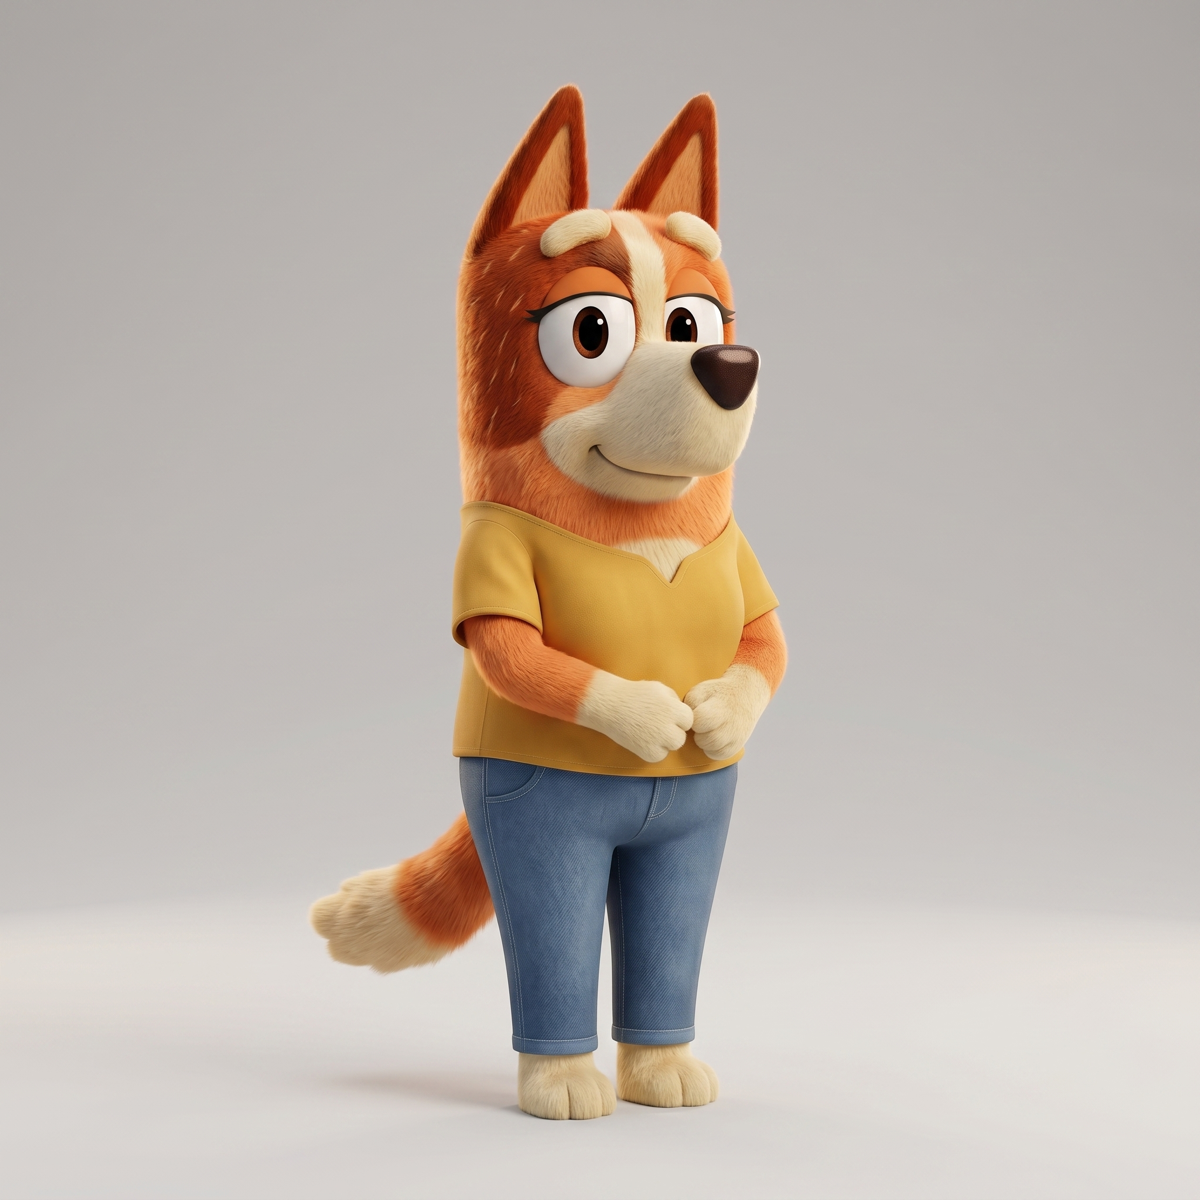
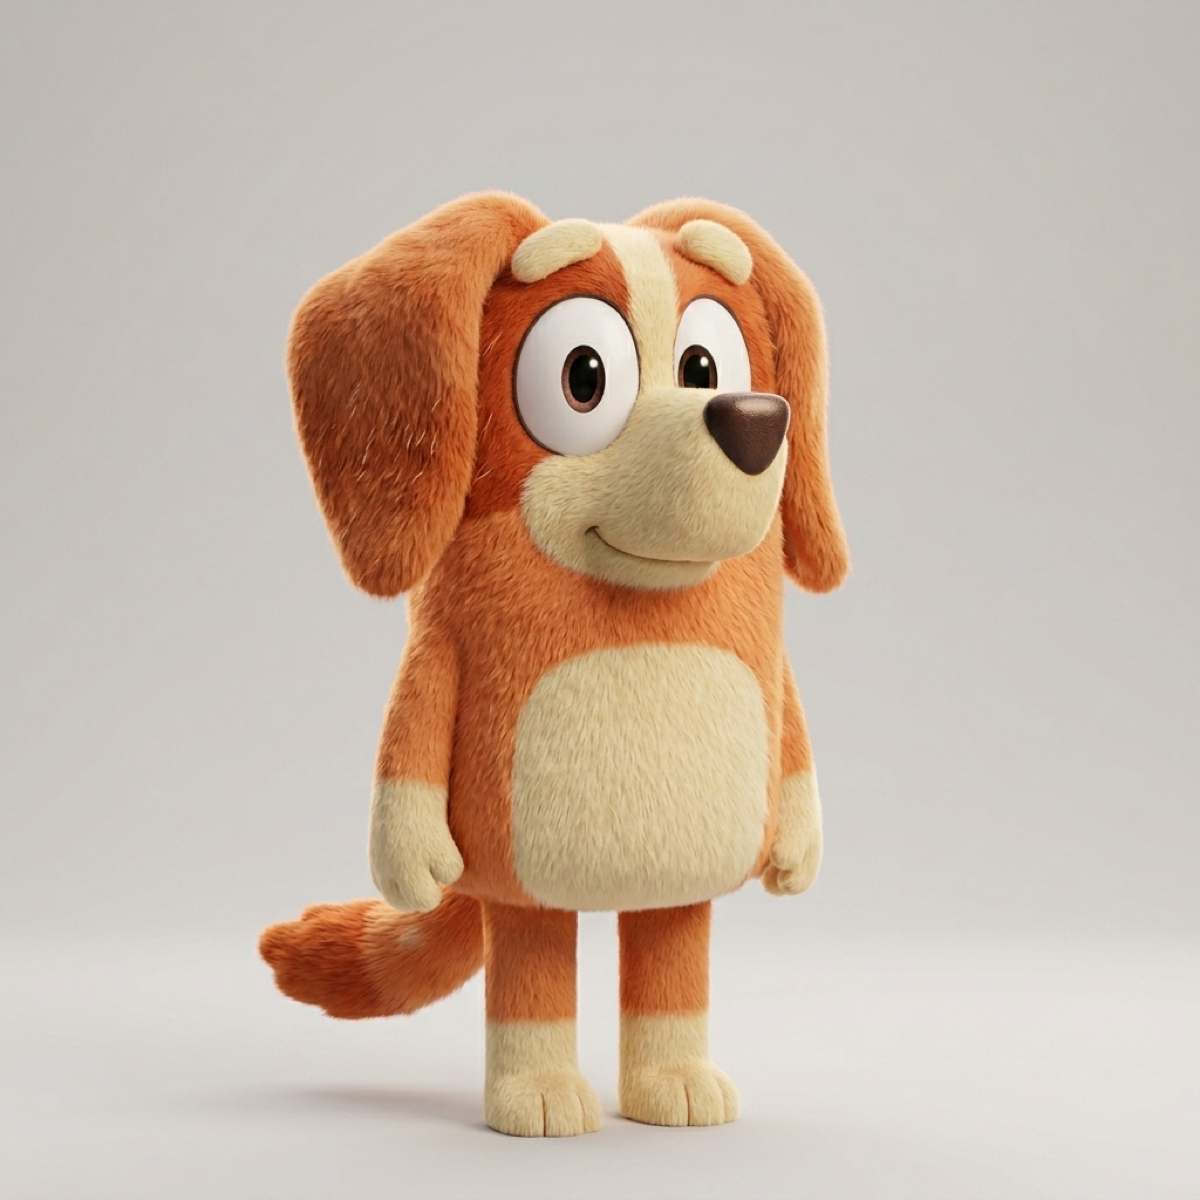
Regenerate Bluey family refs without clothes; add character disambiguation rules
- Bluey, Bingo, Bandit, Chilli, Stripe, Trixie, Muffin, Socks, Bob regenerated
  without clothes to match source reference material
- Nana pending (Kie AI credits depleted mid-batch)
- CLAUDE.md: added Mia/Mia_Alma/Mia_Alexandra disambiguation section
- CLAUDE.md: added Bluey family 'no clothes' rule
- CLAUDE.md: added pipeline cancellation rules (don't delete audio)
- generate-images.py: Linux/ImageMagick support for VPS

Changed region(s): [[0.2158, 0.0617, 0.7092, 0.9558], [0.9867, 0.0, 1.0, 0.0308]]

diff --git a/CLAUDE.md b/CLAUDE.md
@@ -1,5 +1,37 @@
 # Project Instructions
 
+## Character Reference Disambiguation — CRITICAL
+
+There are MULTIPLE characters whose names START with "Mia". NEVER confuse them.
+
+| Name in story | EXACT reference path | Description |
+|---|---|---|
+| **Mia** (LA Friends stories) | `public/characters/forum/Mia.jpg` | White toddler, reddish-brown pigtails, blue eyes, yellow shirt + orange overalls |
+| **Mia Alma** (Gan West) | `public/characters/Mia_Alma.jpg` | Same visual as LA Friends Mia (white, pigtails, overalls) |
+| **Mia Alexandra** (Gan West) | `public/characters/Mia_Alexandra.jpg` | Black/African-American toddler, blonde curly bun, purple top |
+
+**Rules:**
+- Stories with `la-friends` or `bluey` type → "Mia" = `public/characters/forum/Mia.jpg` ONLY. Never Mia_Alma, never Mia_Alexandra.
+- Stories with `gan-west` type → use whichever Mia_* the user specified; never substitute.
+- The GitHub Pages URL for LA Friends Mia is: `https://kidstory.online/characters/forum/Mia.jpg` (case sensitive!)
+- **NEVER** use multiple "Mia" refs in the same scene unless the story explicitly has multiple Mia characters meeting.
+
+## Pipeline Cancellation Rules
+
+- **DO NOT DELETE AUDIO** when cancelling/restarting a pipeline. Audio narration text is rarely visual-character-specific and is usually reusable. Only delete audio when the story text itself has changed.
+- When cancelling: only delete image files (scenes + choices), keep audio for reuse if user wants.
+- When restarting: audio-lines.json is cheap to regenerate — but existing mp3s can often be reused if concept is same.
+- **ElevenLabs history API returns 0 items** on this account (likely plan limitation) — so once a mp3 is deleted locally, it's gone. BE CAREFUL with `rm` commands.
+- **ALWAYS preserve the audio-lines.json file** (copy it to `data/audio-lines-backup-{jobId}.json` on cancel) so narration text can be replayed cheaply.
+
+## Bluey / Heeler Family Rules
+
+- **NO CLOTHES.** The Heeler family characters in the source material wear their natural fur, not T-shirts/pants. When generating scenes OR character refs, prompt for their natural heeler fur colors ONLY — no added clothing. Exception: if a scene explicitly involves costumes (e.g. pajamas, swimsuits), mention that explicitly.
+- Size rule: Bluey and Mia (LA Friends) must be the SAME height in any shared scene (both toddler scale). Bingo slightly shorter than Bluey. Adults (Bandit, Chilli, Stripe, Trixie, Bob, Nana) clearly much taller.
+- Character reference images live in `public/characters/bluey/` — GitHub Pages URL: `https://kidstory.online/characters/bluey/<Name>.png` (case sensitive!)
+- Trixie and Muffin are **WHITE/GREY with black spots** (NOT yellow). Check refs before prompting.
+- Socks is a **tiny grey-blue BABY** — smallest of all kids, often on all fours.
+
 ## Image Generation — MANDATORY RULES
 
 **Read `memory/image-generation.md` BEFORE generating ANY image. No exceptions.**
